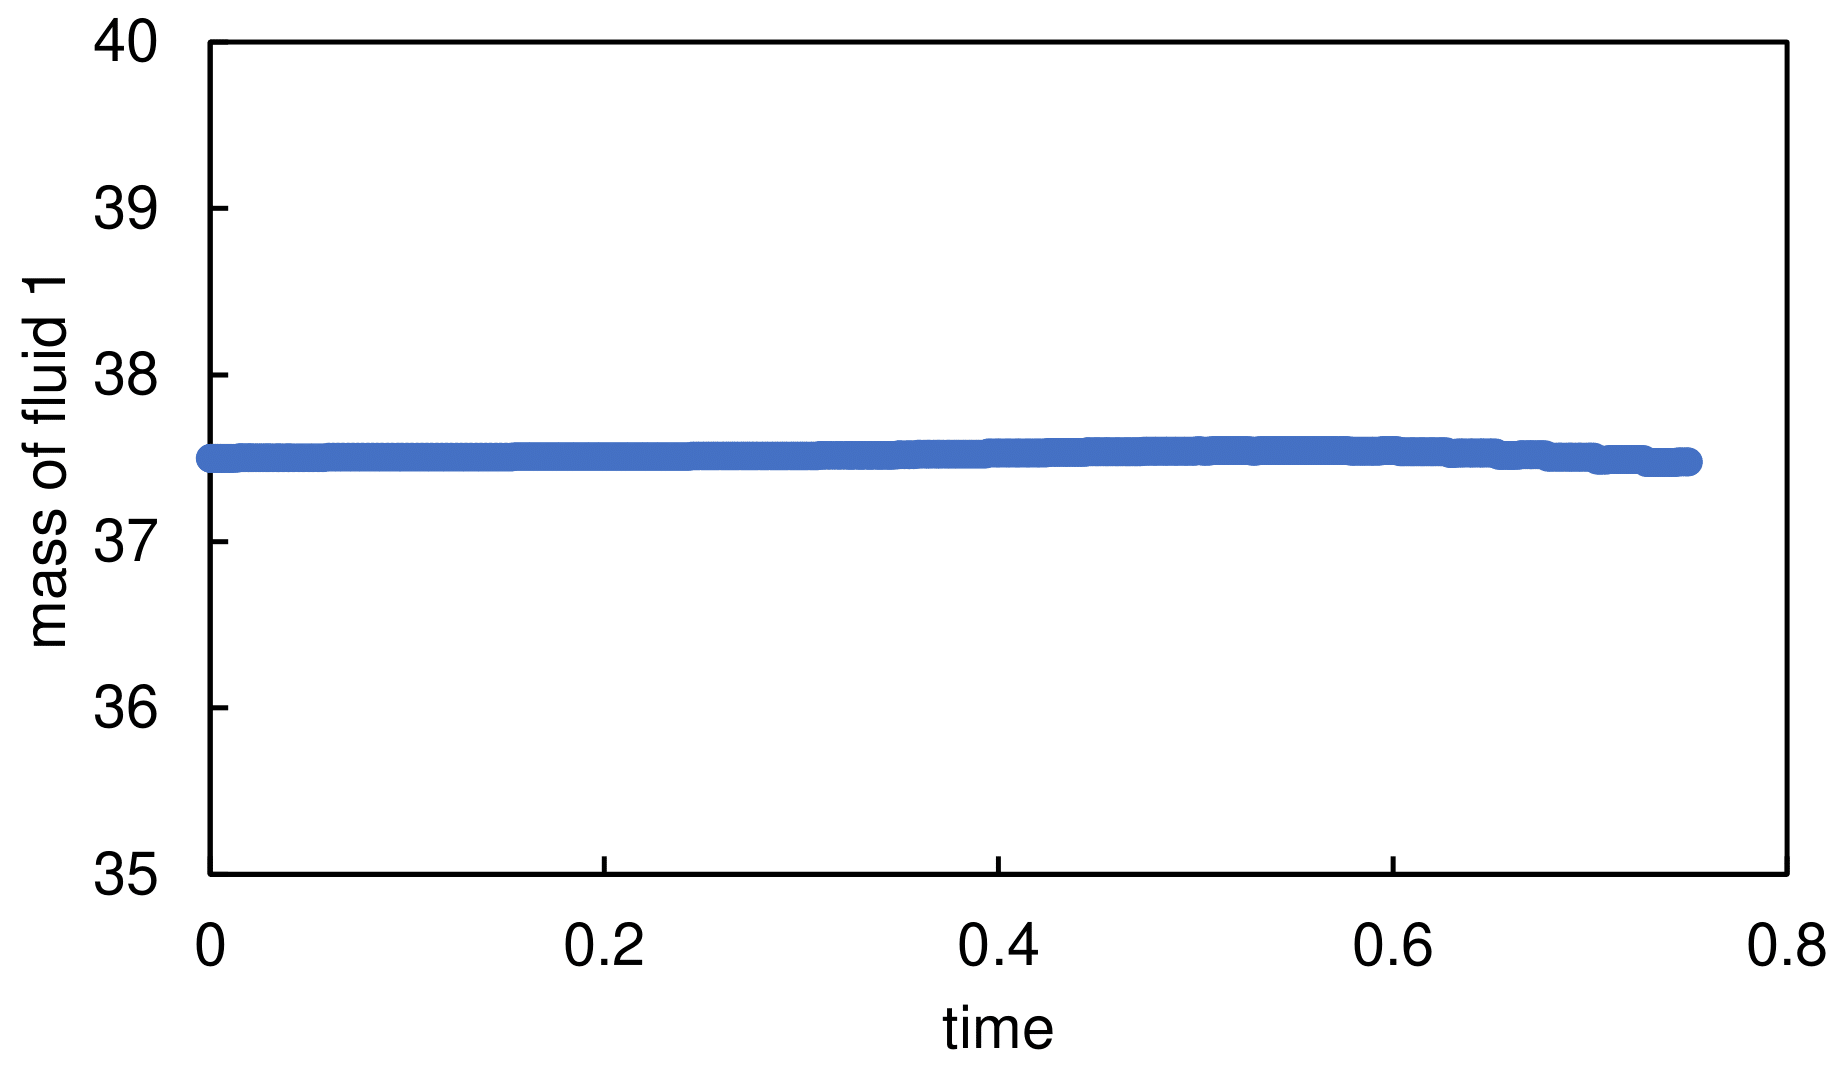
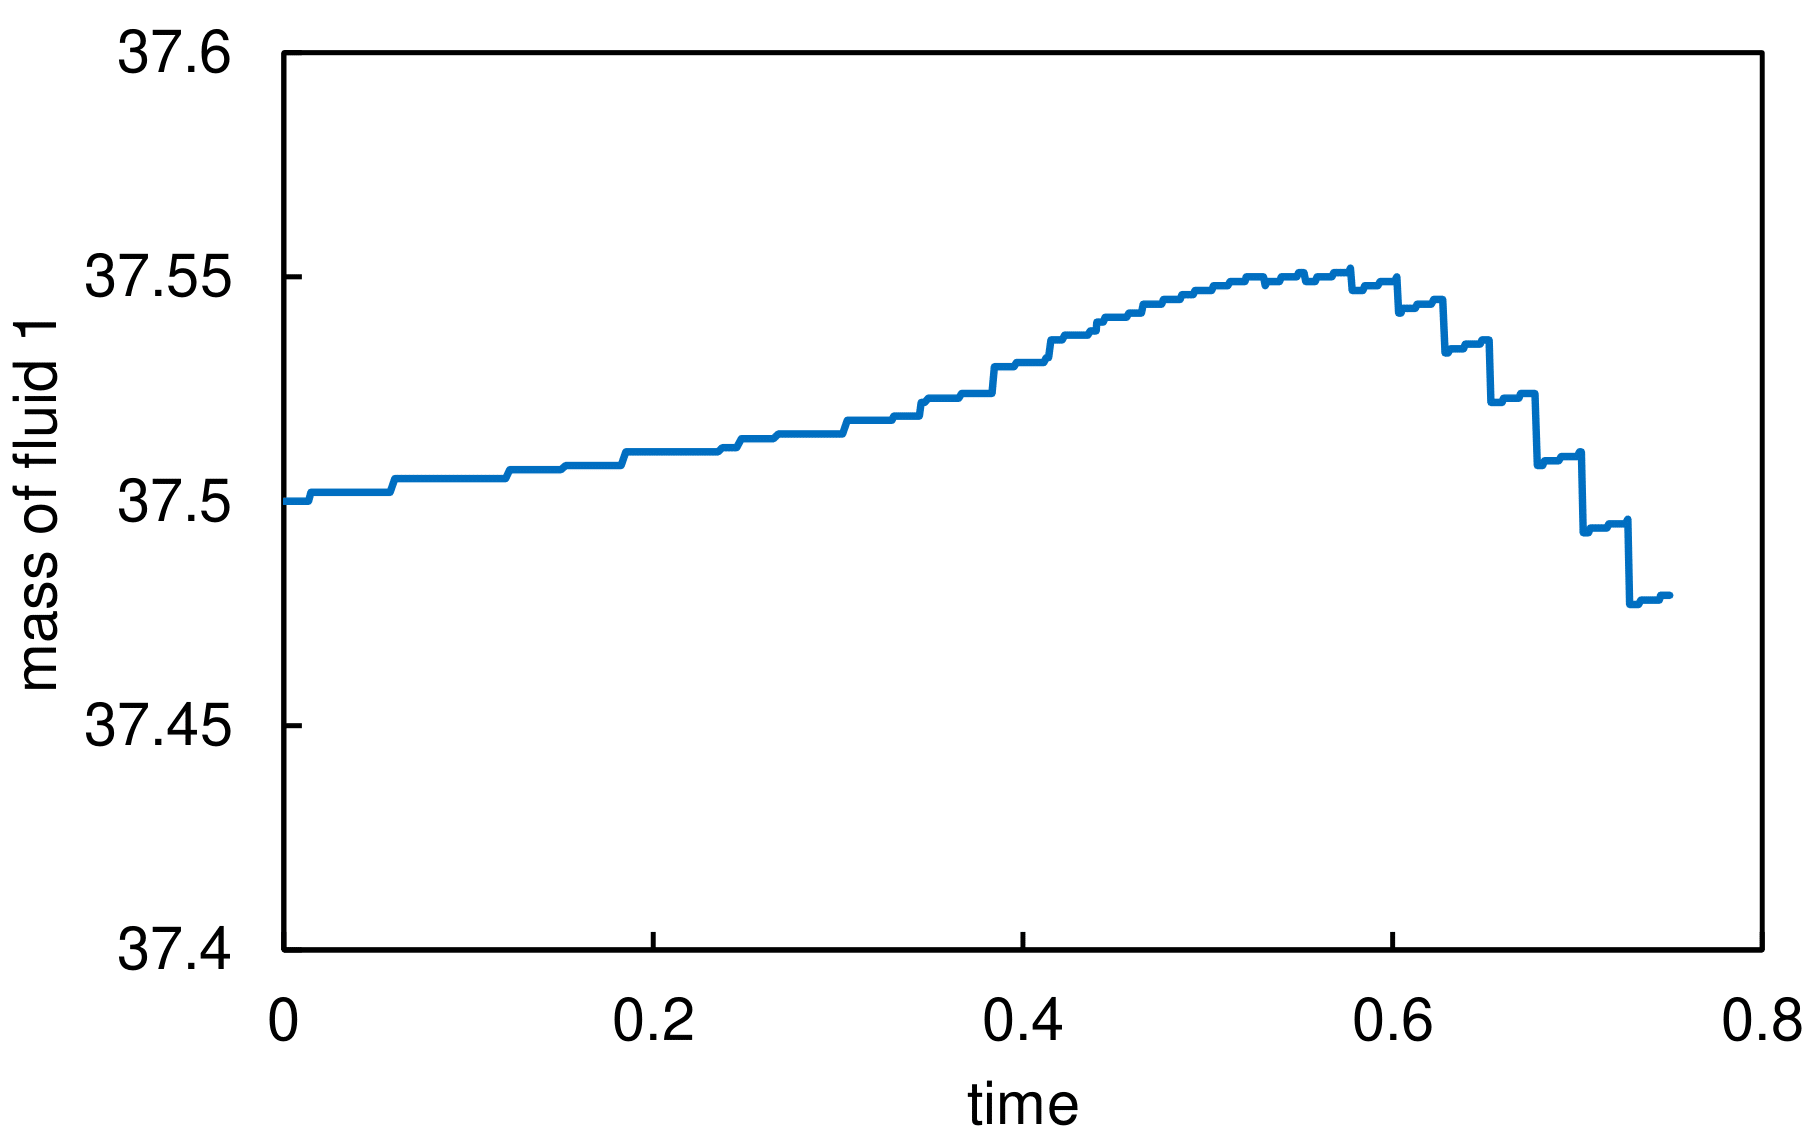
Apply comments

diff --git a/doc/source/examples/multiphysics/rayleigh-taylor-instability/rayleigh-taylor-instability.rst b/doc/source/examples/multiphysics/rayleigh-taylor-instability/rayleigh-taylor-instability.rst
@@ -21,7 +21,9 @@ Features
 ------------------------
 Location of the example
 ------------------------
-``examples/multiphysics/rayleigh_taylor_instability/rayleigh_taylor_instability.prm``
+``examples/multiphysics/rayleigh_taylor_instability/rayleigh_taylor_instability_constant_refinement.prm``
+
+``examples/multiphysics/rayleigh_taylor_instability/rayleigh_taylor_instability_adaptive_refinement.prm``
 
 
 -----------------------------
@@ -52,7 +54,7 @@ which result in Reynolds and Atwood numbers equal to
         At = \frac{\rho_r - 1}{\rho_r + 1} = 0.5
 
 
-A perturbed interface defined as :math:`2H + 0.1 \cos{2 \pi x} / H` separates the fluids. At the top and bottom boundaries, no-slip boundary condition is applied, while on the left and right walls, periodic boundary condition is used. The temporal evolution of the interface is compared with the simulations of Garoosi and Hooman [2] at dimensionless times (:math:`t = t \sqrt{\bf{g} / H}`) of 1.5, 2.5, 3.5, 4.0 and 4.5.
+A perturbed interface defined as :math:`2H + 0.1 \cos{2 \pi x} / H` separates the fluids. At the top and bottom boundaries, a no-slip boundary condition is applied, while on the left and right walls, a periodic boundary condition is used. The temporal evolution of the interface is compared with the simulations of Garoosi and Hooman [2] at dimensionless times (:math:`t = t \sqrt{\bf{g} / H}`) of 1.5, 2.5, 3.5, 4.0 and 4.5.
 
 
 --------------
@@ -172,7 +174,34 @@ The ``initial refinement`` of the mesh is equal to 7, but we use a mesh adaptati
     end
 
 
-In the ``VOF`` subsection, we enable ``interface sharpening`` to reconstruct the interface and keep it sharp during the simulation. Note that here we use the ``constant`` method for interface sharpening. We can also use ``adaptative`` type for interface sharpening, but the ``mass conservation`` results show that choosing a ``constant`` method does not affect the mass conservation significantly.
+The boundary conditions applied on the left and right boundaries are ``periodic``, while a ``noslip`` boundary condition is used for the top and bottom walls. In the definition of a ``periodic`` boundary, we need to specify the ``periodic_id`` and the ``periodic_direction`` (in this example, 0 which shows the x direction).
+
+
+.. code-block:: text
+
+    #---------------------------------------------------
+    # Boundary Conditions
+    #---------------------------------------------------
+    subsection boundary conditions
+      set number                  = 4
+        subsection bc 0
+        set id = 0
+            set type              = periodic
+            set periodic_id	      = 1
+            set periodic_direction = 0
+        end
+        subsection bc 1
+        set id = 2
+            set type              = noslip
+        end
+        subsection bc 2
+        set id = 3
+            set type              = noslip
+        end
+    end
+
+
+In the ``VOF`` subsection, we enable ``interface sharpening`` to reconstruct the interface and keep it sharp during the simulation. Note that here we use the ``constant`` and ``adaptive`` methods for interface sharpening. The ``mass conservation`` results show that choosing a ``constant`` method does not affect the mass conservation significantly. Hence, the results of both methods are almost identical. For the ``constant`` refinement we use
 
 
 .. code-block:: text
@@ -195,6 +224,35 @@ In the ``VOF`` subsection, we enable ``interface sharpening`` to reconstruct the
         set tolerance           	= 1e-6
         set verbosity           	= quiet
       end
+    end
+
+
+and for the ``adaptive`` refinement
+
+
+.. code-block:: text
+
+    #---------------------------------------------------
+    # VOF
+    #---------------------------------------------------
+    subsection VOF
+      subsection interface sharpening
+        set enable                  = true
+        set threshold               = 0.5
+        set interface sharpness     = 1.5
+        set frequency               = 25
+        set type                    = adaptative
+        set threshold max deviation = 0.2
+        set max iterations          = 50
+     end
+    
+     subsection mass conservation
+        set monitoring          	= true
+        set  monitored fluid     	= fluid 1
+        set tolerance           	= 1e-2
+        set verbosity           	= quiet
+      end
+    
     end
 
 
@@ -235,7 +293,7 @@ In the following figure, we compare the simulation results with that of Garoosi 
     :width: 400
 
 
-The following figure shows the mass of fluid 1 throughout the simulation.
+The following figure shows the mass of fluid 1 throughout the simulation with a constant interface sharpening.
 
 
 .. image:: images/mass_of_fluid1.png
